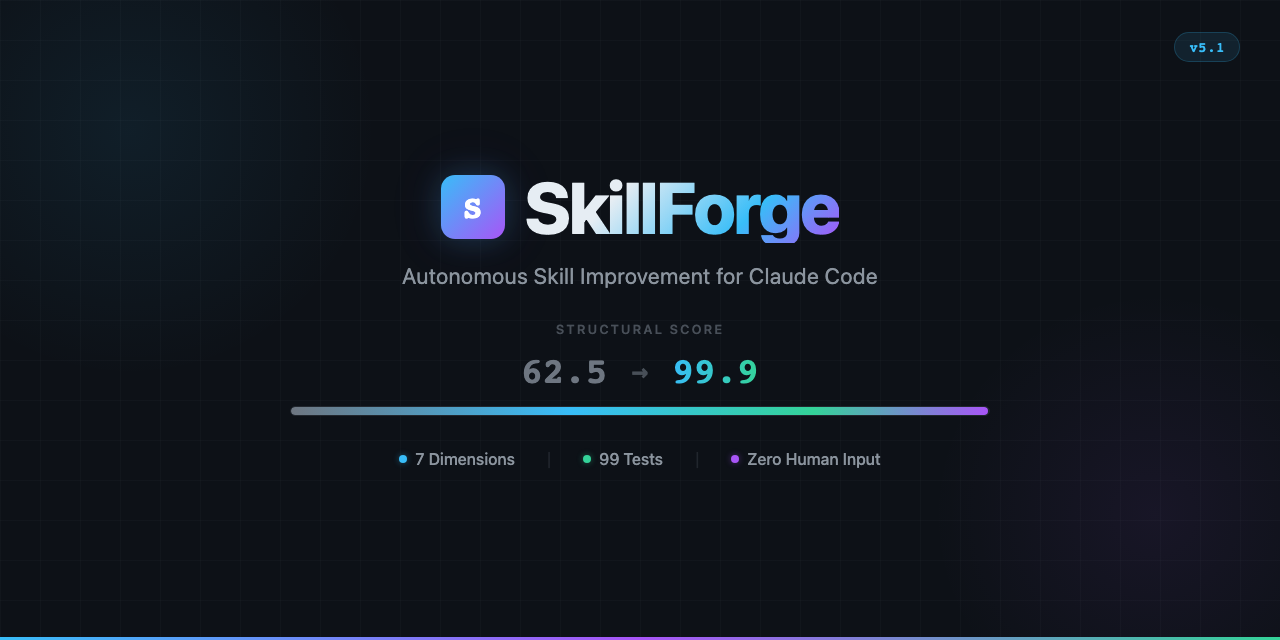
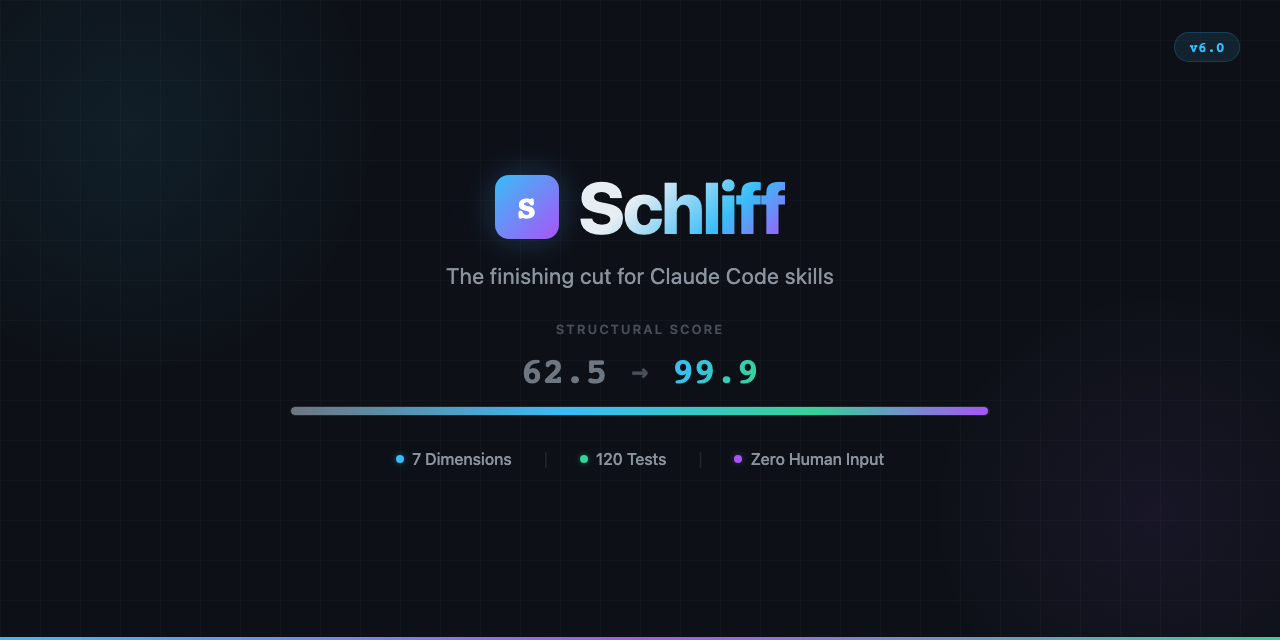
chore: update social preview for Schliff v6.0
- Tagline: "The finishing cut for Claude Code skills"
- Stats: 120 tests, v6.0
- Re-rendered PNG at 1280x640

diff --git a/demo/social-preview.html b/demo/social-preview.html
@@ -246,7 +246,7 @@
     <div class="glow-tl"></div>
     <div class="glow-br"></div>
 
-    <span class="version">v5.1</span>
+    <span class="version">v6.0</span>
 
     <div class="content">
       <div class="title-row">
@@ -254,7 +254,7 @@
         <h1 class="title">Schliff</h1>
       </div>
 
-      <p class="subtitle">Autonomous Skill Improvement for Claude Code</p>
+      <p class="subtitle">The finishing cut for Claude Code skills</p>
 
       <div class="score-section">
         <span class="score-label">Structural Score</span>
@@ -271,7 +271,7 @@
       <div class="stats">
         <span class="stat"><span class="stat-dot dot-blue"></span>7 Dimensions</span>
         <span class="stat-sep">|</span>
-        <span class="stat"><span class="stat-dot dot-green"></span>99 Tests</span>
+        <span class="stat"><span class="stat-dot dot-green"></span>120 Tests</span>
         <span class="stat-sep">|</span>
         <span class="stat"><span class="stat-dot dot-purple"></span>Zero Human Input</span>
       </div>
